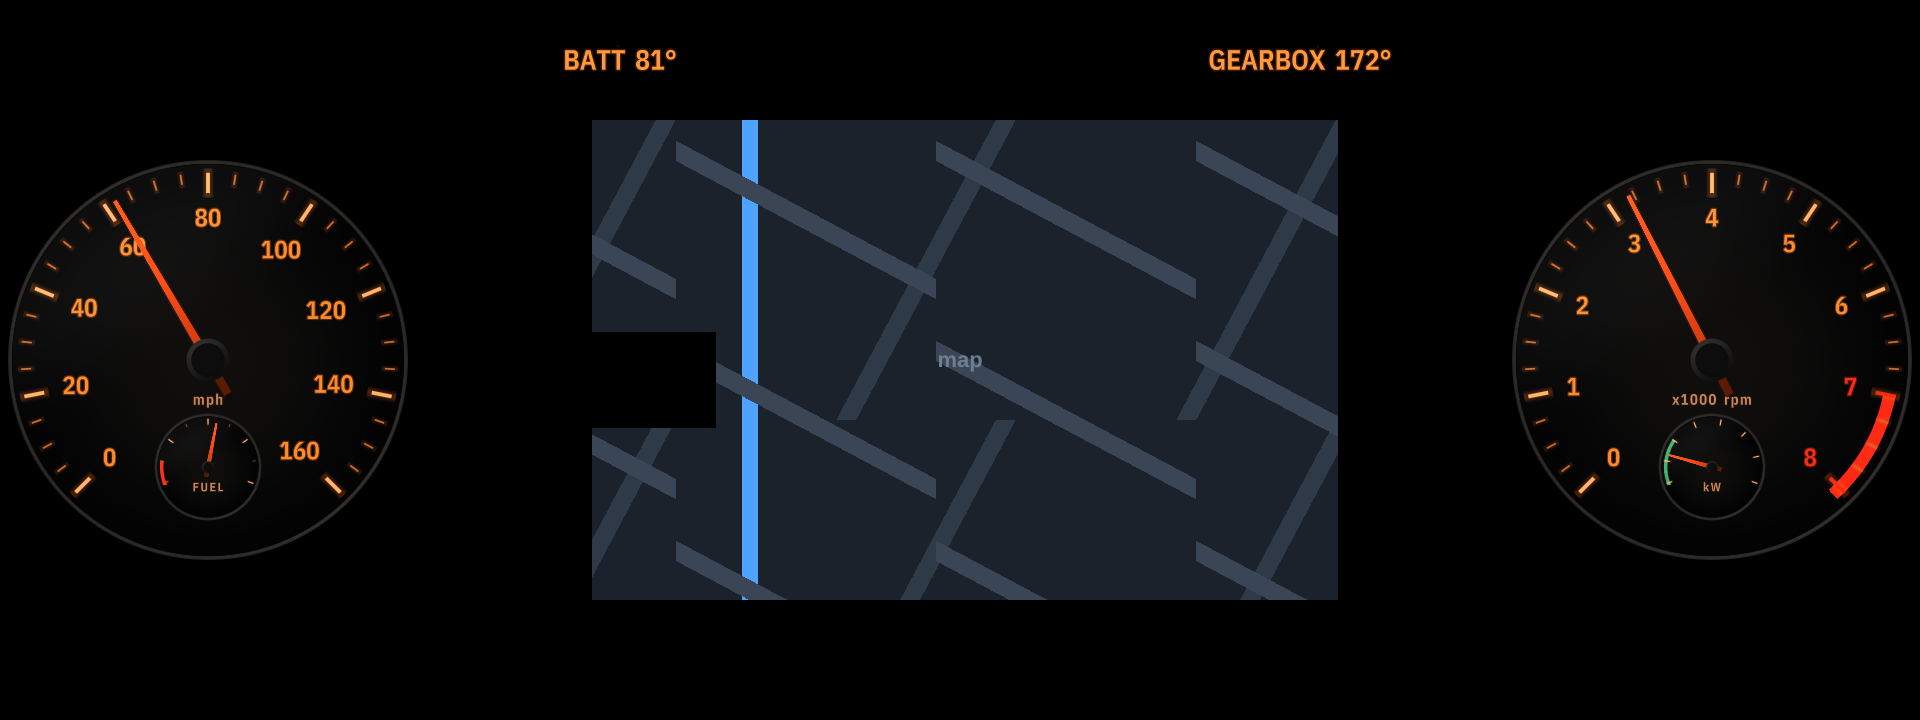
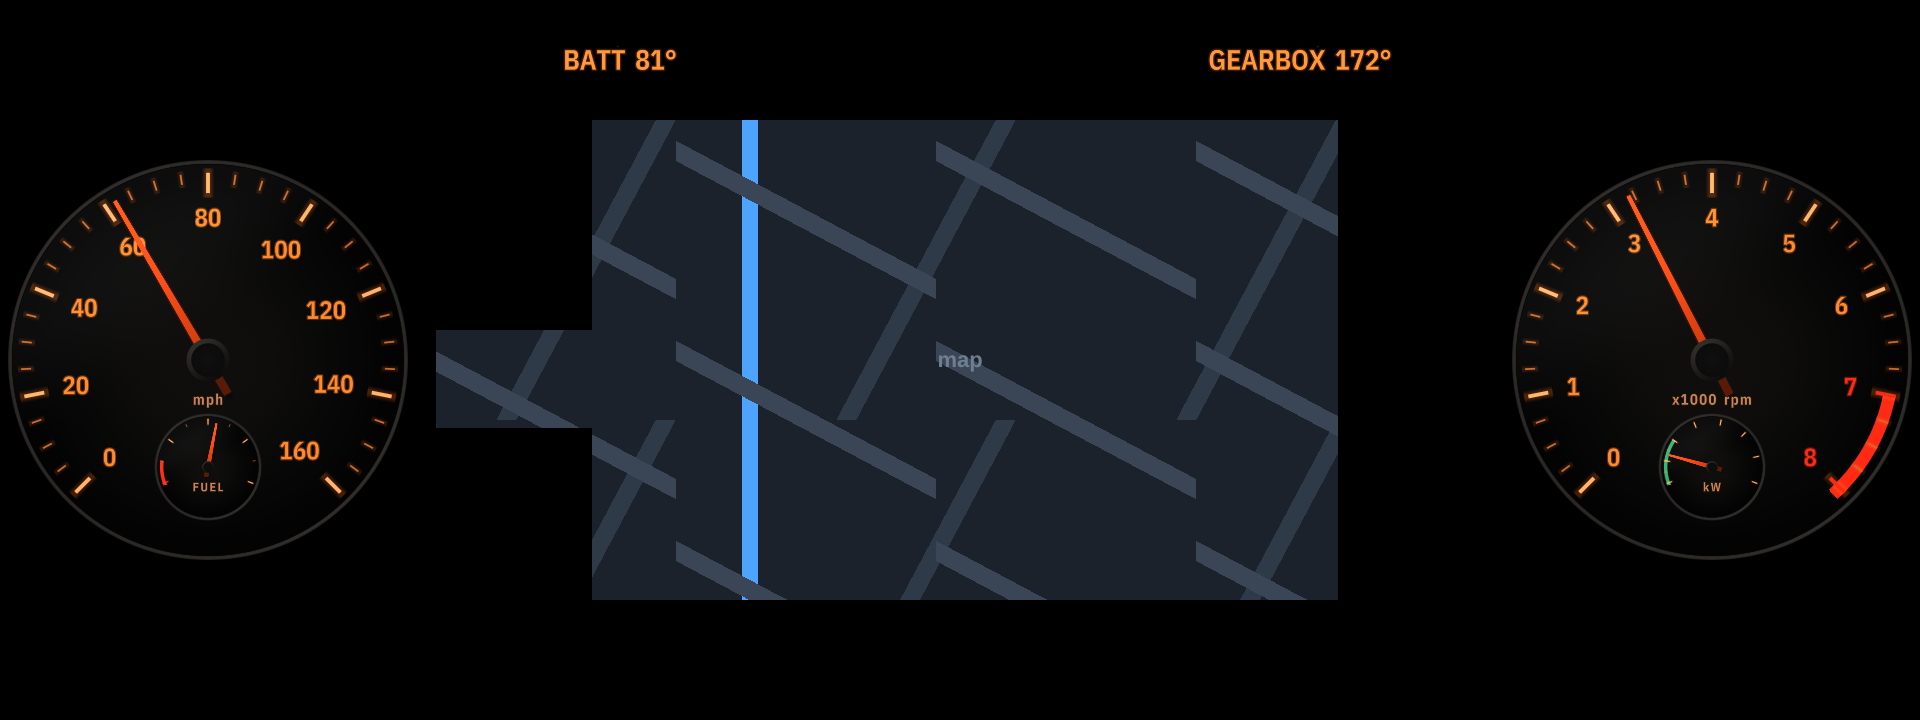
Layouts 0.50.1: the cluster's own speed readout beside the map's view
With the map or the stock centre over the car's strip, the layouts but
ID7 M and ID8 M leave the cluster's own speed readout and speed bar open
beside the view, from just inside the fin (STOCK_SPEED, x 436-592,
y 330-428), instead of covering it.

Claude-Session: https://claude.ai/code/session_01QXViLhVqF9rtKtBBVyCzXw

Changed region(s): [[0.2188, 0.4583, 0.375, 0.6111]]

diff --git a/apps/akakingj_cluster_layouts/layout_common.js b/apps/akakingj_cluster_layouts/layout_common.js
@@ -76,18 +76,21 @@ const clock = () => require('./clock').hm(undefined, true);   // (12-hour: with 
 const MAP = { x: 416, y: 120, w: 1088, h: 480 };
 /*
  * What a layout leaves open of it: the middle between the KOMBI's own fins (x 574 and 1357 at the top; its "km/h",
- * speed-limit sign and "1/min" along the bottom edges), where waze-on-cluster draws its map (map_window.js). The
- * KOMBI's speed readout at the left of its map (x 416-703, y 343-416) is covered by STOCK_SPEED.
+ * speed-limit sign and "1/min" along the bottom edges), where waze-on-cluster draws its map (map_window.js), and
+ * STOCK_SPEED beside it, the KOMBI's own speed readout and speed bar at the left of its map (x 416-705, y 342-415)
+ * from just inside the fin.
  */
 const MAP_VIEW = { x: 592, y: 120, w: 746, h: 480 };
-const STOCK_SPEED = { x: 592, y: 332, w: 124, h: 96 };
-/** Background rectangles round the map's view (top, bottom, left, right, the KOMBI's speed readout). */
+const STOCK_SPEED = { x: 436, y: 330, w: 156, h: 98 };
+/** Background rectangles round the map's view and the KOMBI's speed readout (top, bottom, left above, beside and
+ * below the readout, right). */
 const aroundMap = () => {
-    const V = MAP_VIEW;
+    const V = MAP_VIEW, S = STOCK_SPEED;
     return [
         { x: 0, y: 0, w: 1920, h: V.y }, { x: 0, y: V.y + V.h, w: 1920, h: 720 - V.y - V.h },
-        { x: 0, y: V.y, w: V.x, h: V.h }, { x: V.x + V.w, y: V.y, w: 1920 - V.x - V.w, h: V.h },
-        Object.assign({}, STOCK_SPEED),
+        { x: 0, y: V.y, w: V.x, h: S.y - V.y }, { x: 0, y: S.y, w: S.x, h: S.h },
+        { x: 0, y: S.y + S.h, w: V.x, h: V.y + V.h - S.y - S.h },
+        { x: V.x + V.w, y: V.y, w: 1920 - V.x - V.w, h: V.h },
     ];
 };
 /** True when a rectangle overlaps the map window. */

diff --git a/tools/test_engine.js b/tools/test_engine.js
@@ -96,9 +96,9 @@ LAYOUTS.forEach((L) => {
         s.engine._tick();
         // (the layout's own map window, M's and Sport's, else the native map area)
         const W = L.mapWindow || C.MAP_VIEW, overMap = (r) => r.x < W.x + W.w && r.x + r.w > W.x && r.y < W.y + W.h && r.y + r.h > W.y;
-        // (the background over the KOMBI's own speed readout at the window's left edge: C.STOCK_SPEED)
-        const S = C.STOCK_SPEED, overSpeed = (l) => !L.mapWindow && /^bg\d$/.test(l.key) && l.x >= S.x && l.y >= S.y && l.x + l.w <= S.x + S.w && l.y + l.h <= S.y + S.h;
-        const over = s.engine._pieces().filter((l) => overMap(l) && !overSpeed(l));
+        // (and beside it the KOMBI's own speed readout, C.STOCK_SPEED, with the view the layouts leave open)
+        const S = C.STOCK_SPEED, overSpeed = (r) => !L.mapWindow && r.x < S.x + S.w && r.x + r.w > S.x && r.y < S.y + S.h && r.y + r.h > S.y;
+        const over = s.engine._pieces().filter((l) => overMap(l) || overSpeed(l));
         // a band's or a chevron's rectangle may reach into the window as long as what it draws stays out (a
         // chevron's ink: clearance.js): only those may overlap
         const { clashes } = require('./clearance');

diff --git a/apps/akakingj_cluster_layouts/README.md b/apps/akakingj_cluster_layouts/README.md
@@ -22,9 +22,10 @@ in the car's map slot under the layout, seen through the window with the cluster
 shaders doesn't have yet.)
 
 ID7 M's map window runs between its blades from under the camera's cowl to the foot of the map area, the speed in its
-left card and the gear in its right one. Apart from ID7 M and ID8 M (their own windows), the layouts leave the middle of the car's map area open, x 592-1338
-between the cluster's own fins, with its speed readout at the left edge covered: the stock map or centre shows there
-without the fins, "km/h", the speed limit sign or "1/min" round it.
+left card and the gear in its right one. Apart from ID7 M and ID8 M (their own windows), the layouts leave the middle
+of the car's map area open, x 592-1338 between the cluster's own fins, and beside it on the left the cluster's own
+speed readout: the stock map or centre shows there without the fins and the bits along its bottom edge (the speed
+limit sign, "1/min").
 
 Every reading goes to the cluster within a frame of arriving: the needles and bars at 60 updates a second, the
 digits every frame, and the battery's power the moment eDrive Live reads it (it writes each

diff --git a/PERSONAL.md b/PERSONAL.md
@@ -272,6 +272,8 @@ the car, then moved to `main` (in the fork they were `personal-kr` / `personal-k
   middle of the map area open (layout_common.MAP_VIEW, x 592-1338, y 120-600; Waze on cluster's window too) and
   covers the cluster's own speed readout at its left edge (STOCK_SPEED): the stock fins, "km/h", speed limit sign
   and "1/min" no longer show cut off at the window's edges.
+  0.50.1: the cluster's own speed readout shows beside the view instead (STOCK_SPEED, x 436-592, y 330-428, from
+  just inside the fin; measured at 0 km/h, a three-digit speed not yet seen).
   ID7 M with the map: its window reaches from under the camera's cowl to the foot of the map area (711, 130,
   498 x 470, was 263 high), the speed in the left card and the gear in the right one, under their gauges.
 
